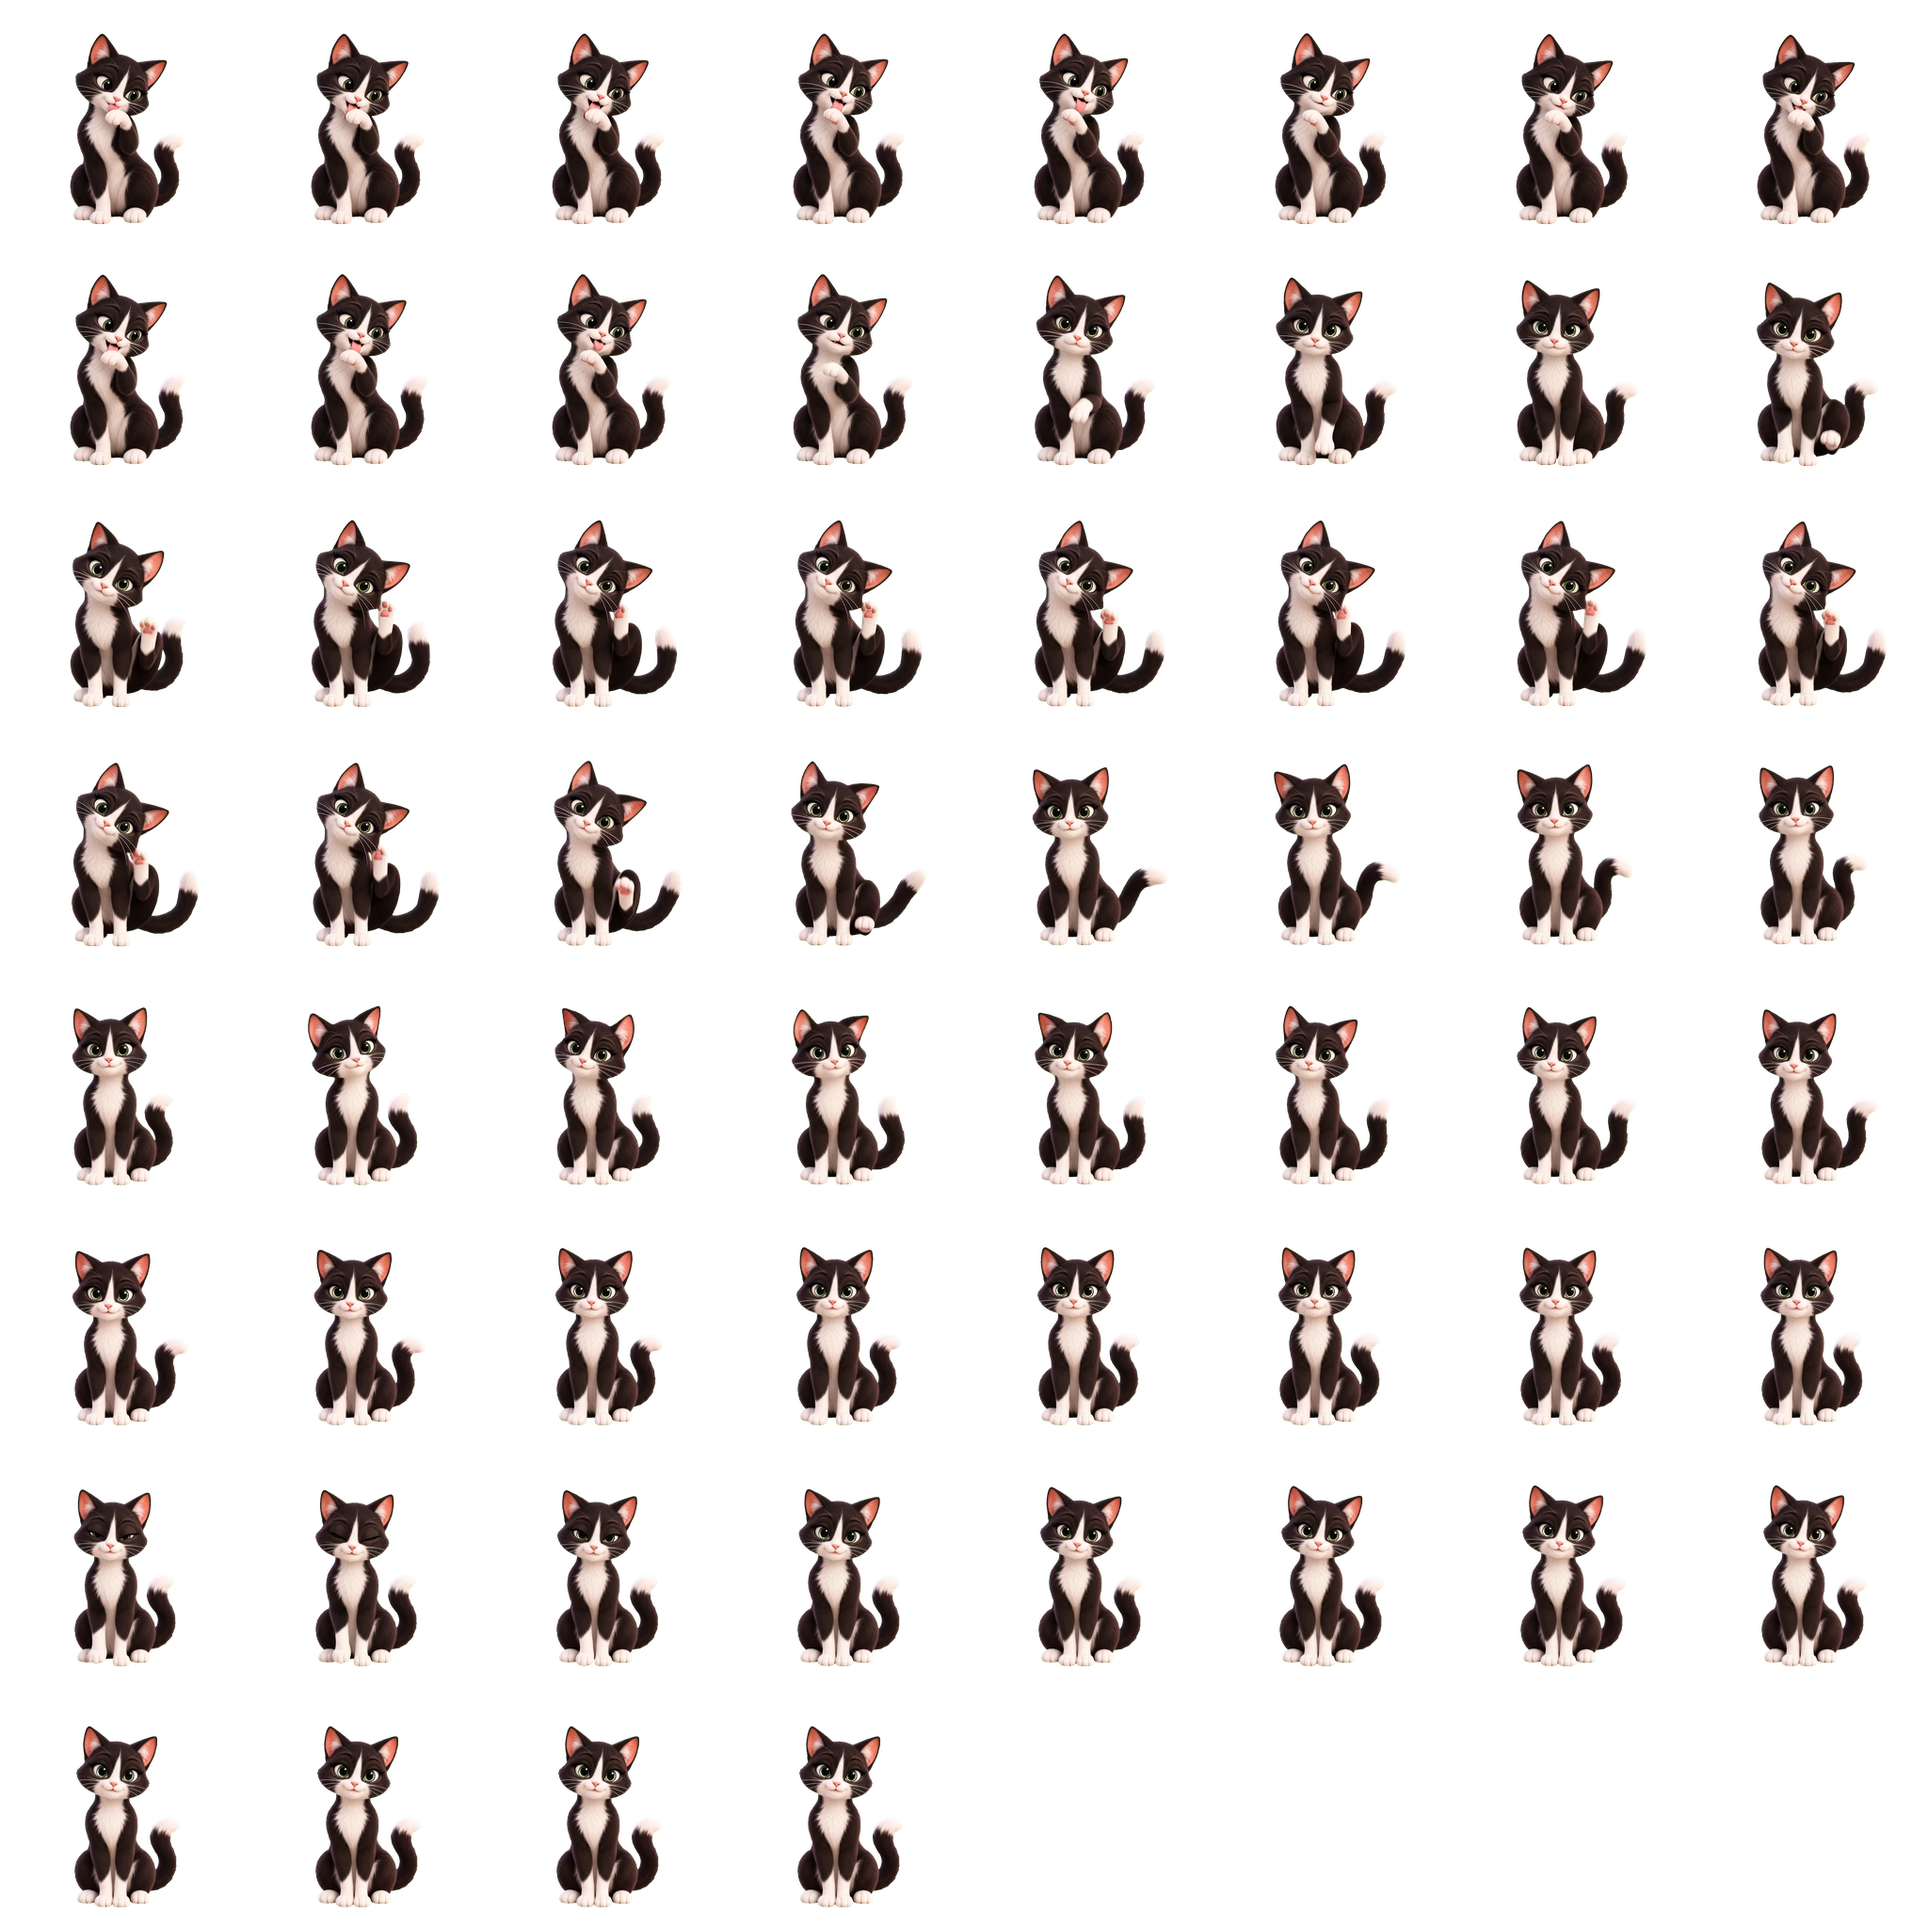
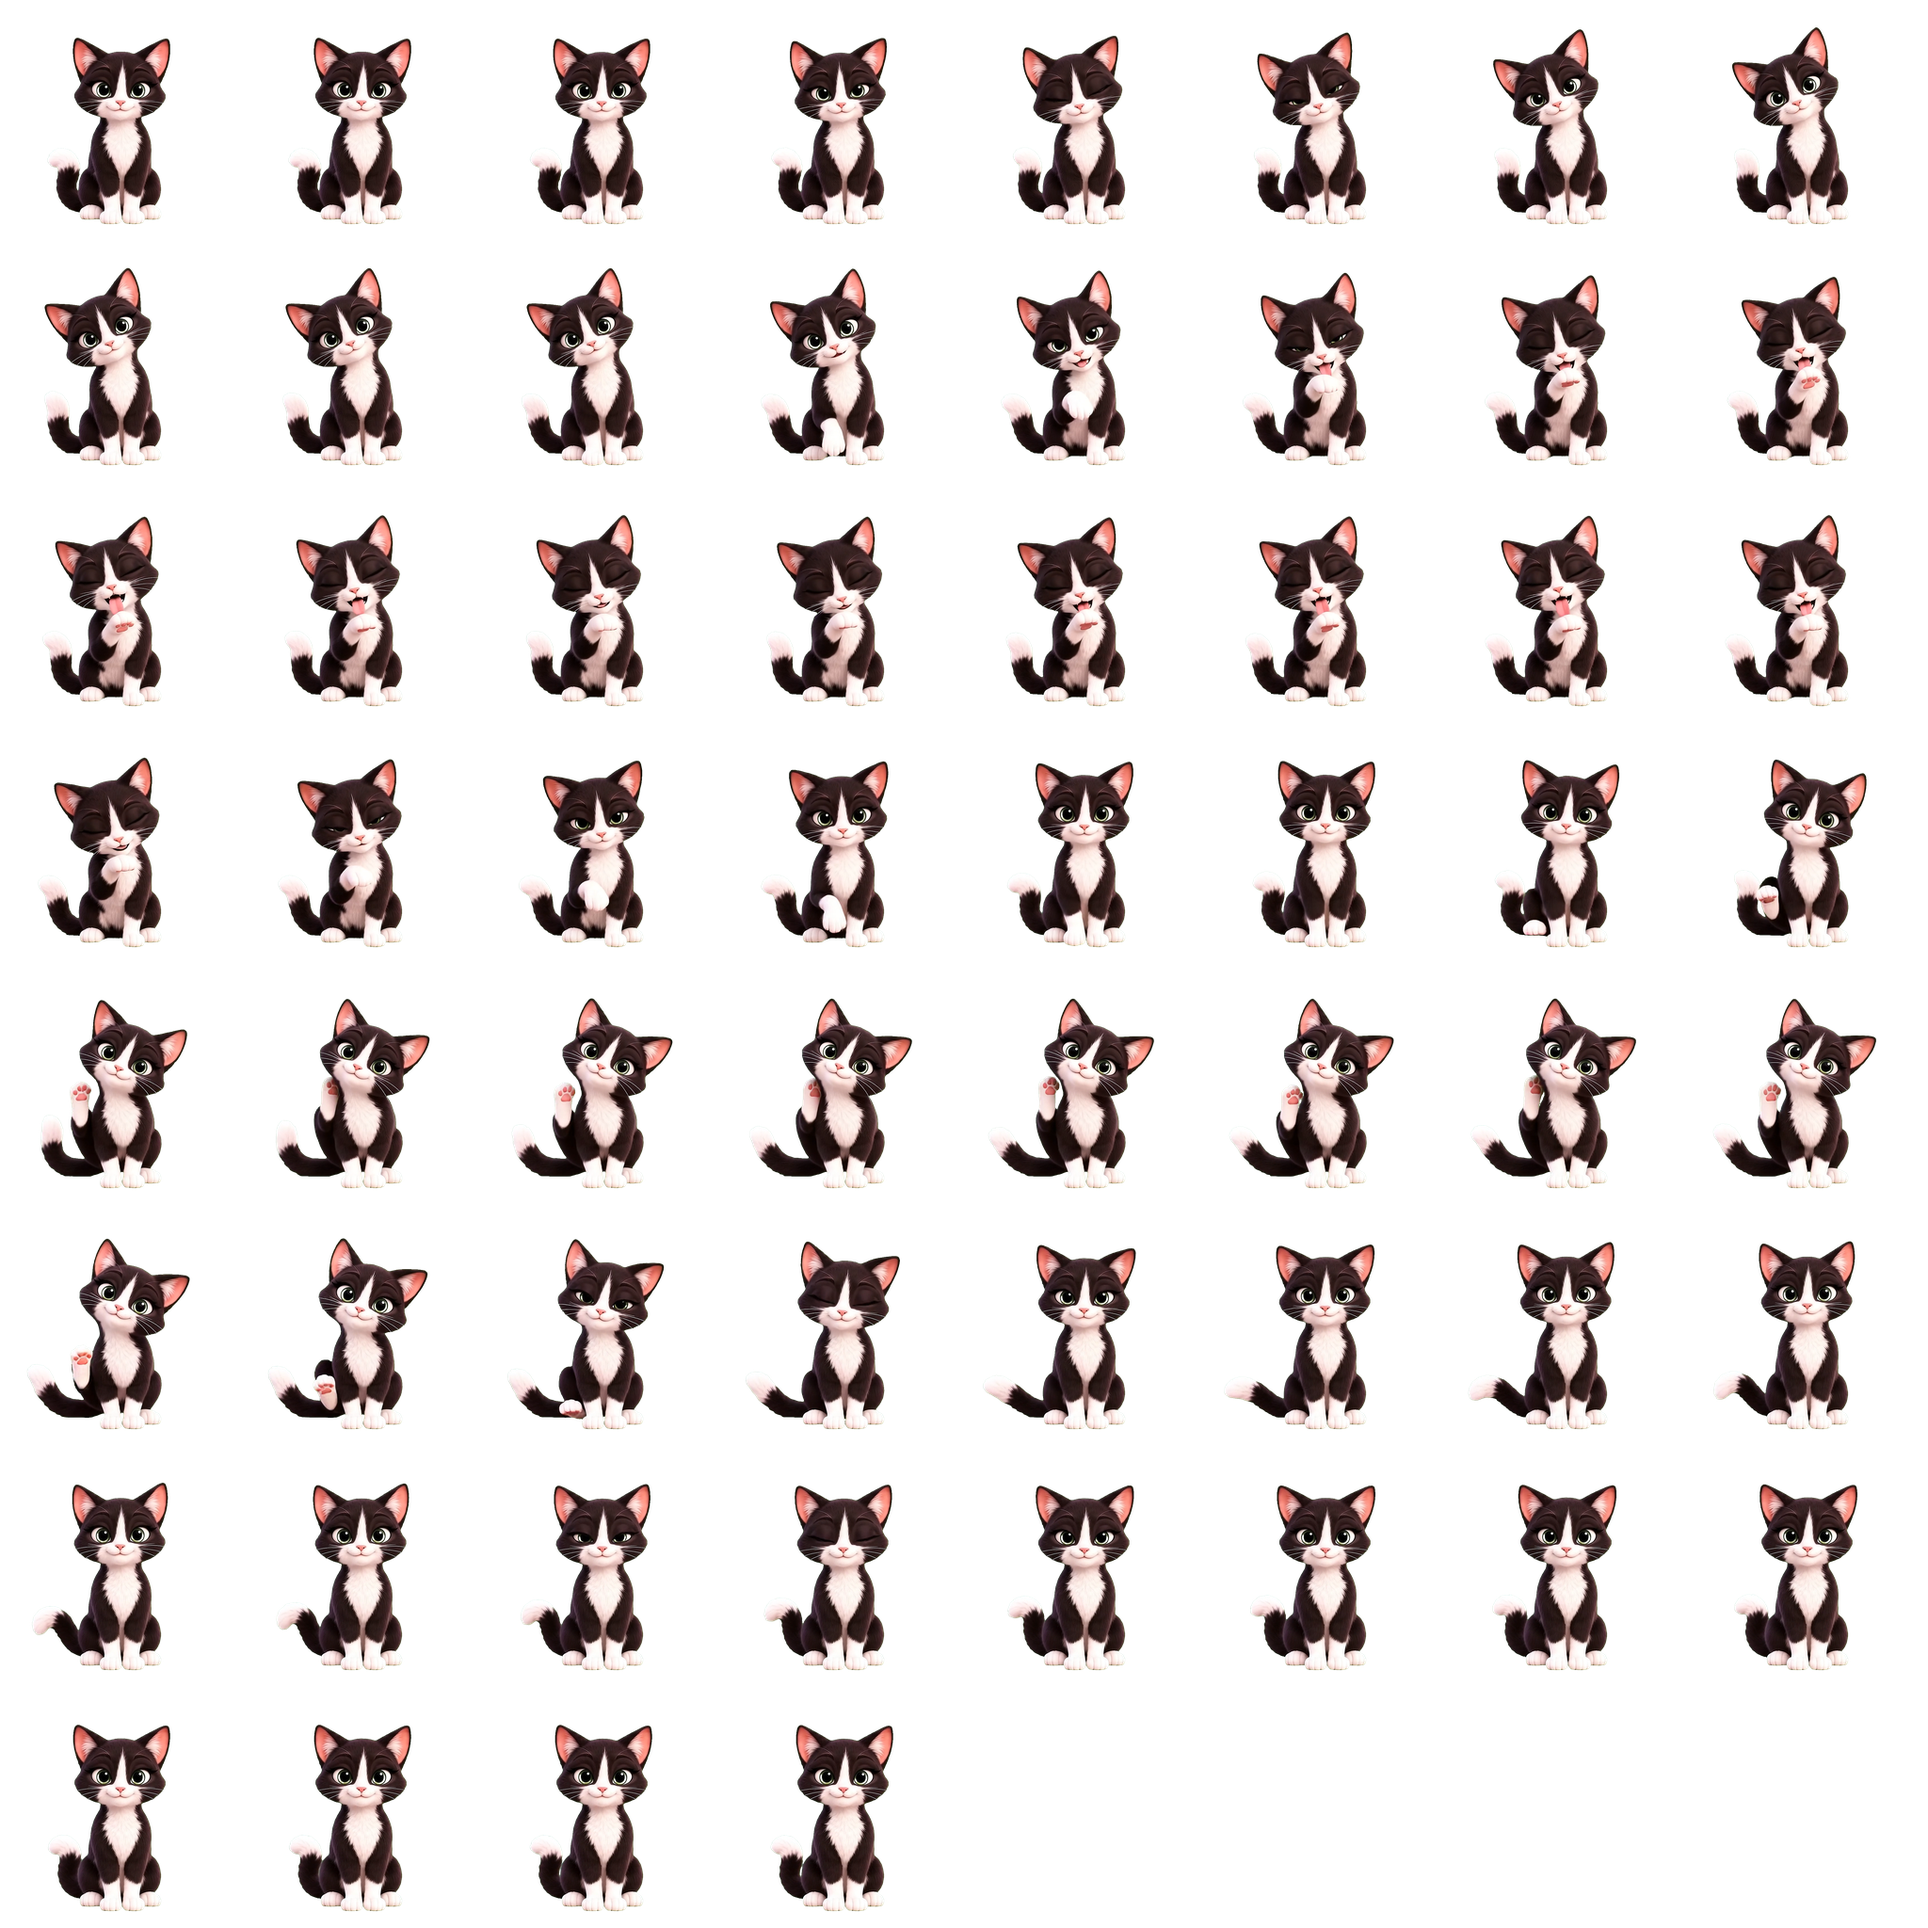
Refresh Margo idle artwork and slow its animation

diff --git a/src/scenes/BootScene.ts b/src/scenes/BootScene.ts
@@ -55,7 +55,8 @@ export class BootScene extends Phaser.Scene {
       for (const action of ["idle", "walk", "jump"]) {
         this.load.spritesheet(character.id + "-" + action,
           characterSheetPath(character, action) +
-            (character.id === "giulinha" ? "?v=20260908-grid64" : ""),
+            (character.id === "giulinha" ? "?v=20260908-grid64" :
+              character.id === "margo" && action === "idle" ? "?v=20260919-idle-v2" : ""),
           { frameWidth: 256, frameHeight: 256, endFrame: characterFrameCount(character) - 1 });
       }
     }

diff --git a/src/config/characters.ts b/src/config/characters.ts
@@ -9,7 +9,7 @@ export const margo: Character = {
   id: "margo", name: "Margô", originX: 0.5, originY: 238 / 256,
   animationScale: { idle: 1, walk: 1, jump: 1 },
   jumpFrames: { start: 6, apex: 23, fallEnd: 34 },
-  frameCount: 60, idleFrameMs: 1000 / 24,
+  frameCount: 60, idleFrameMs: 1000 / 12,
 };
 export const characters: Character[] = [
   {

diff --git a/scripts/pack-margo-sheets.py b/scripts/pack-margo-sheets.py
@@ -18,14 +18,14 @@ def main():
     output.mkdir(exist_ok=True)
     for action in ('idle', 'walk', 'jump'):
         with Image.open(DIRECTORY / f'margo_{action}_sheet.png') as original:
-            expected = (8640, 15360) if action == 'idle' else (15360, 8640)
+            expected = (15360, 8640)
             if original.size != expected:
                 raise ValueError(f'{action}: expected source size {expected}')
             source = original.convert('RGBA')
         width, height = source.width // COLUMNS, source.height // COLUMNS
         # Sitting and walking were exported at different source scales. Keep
         # walk and jump identical; align the torso and ground, not the tail.
-        scale, anchor_x, baseline = (0.2, 550, 1459) if action == 'idle' else (0.28, 1000, 830)
+        scale, anchor_x, baseline = (0.30, 960, 872) if action == 'idle' else (0.28, 1000, 830)
         sheet = Image.new('RGBA', (FRAME * COLUMNS, FRAME * COLUMNS))
         for index in range(64):
             x, y = (index % COLUMNS) * width, (index // COLUMNS) * height

diff --git a/public/assets/margo/README.md b/public/assets/margo/README.md
@@ -6,10 +6,10 @@ Os três PNGs originais são preservados nesta pasta:
 - `margo_walk_sheet.png`
 - `margo_jump_sheet.png`
 
-Cada arquivo contém 60 quadros em uma grade 8 × 8; as quatro últimas células estão vazias. O idle original mede 8640 × 15360, e walk/jump medem 15360 × 8640.
+Cada arquivo contém 60 quadros em uma grade 8 × 8; as quatro últimas células estão vazias. Os três originais medem 15360 × 8640.
 
 O jogo carrega somente as versões otimizadas em `runtime/`: 2048 × 2048, quadros 256 × 256, mantendo os 60 quadros e a transparência. Os originais grandes não entram no build de produção.
 
 Para atualizar depois de substituir os originais, execute `python3 scripts/pack-margo-sheets.py` na raiz do projeto (requer Pillow). O script valida dimensões, células vazias e possíveis cortes. Cada ação usa uma transformação fixa, sem recentralizar cada quadro; caminhada e salto compartilham escala e apoio das patas. Os originais não são sobrescritos.
 
-Margô está disponível na seleção. O idle roda a 24 fps; a caminhada acompanha a velocidade; o salto acompanha subida, ápice e queda, seguido pelo pouso. A configuração fica em `src/config/characters.ts`. As colisões seguem as mesmas regras dos outros personagens.
+Margô está disponível na seleção. O idle roda a 12 fps (ciclo de 5 segundos), tanto no menu quanto na fase; a caminhada acompanha a velocidade; o salto acompanha subida, ápice e queda, seguido pelo pouso. A configuração fica em `src/config/characters.ts`. As colisões seguem as mesmas regras dos outros personagens.
